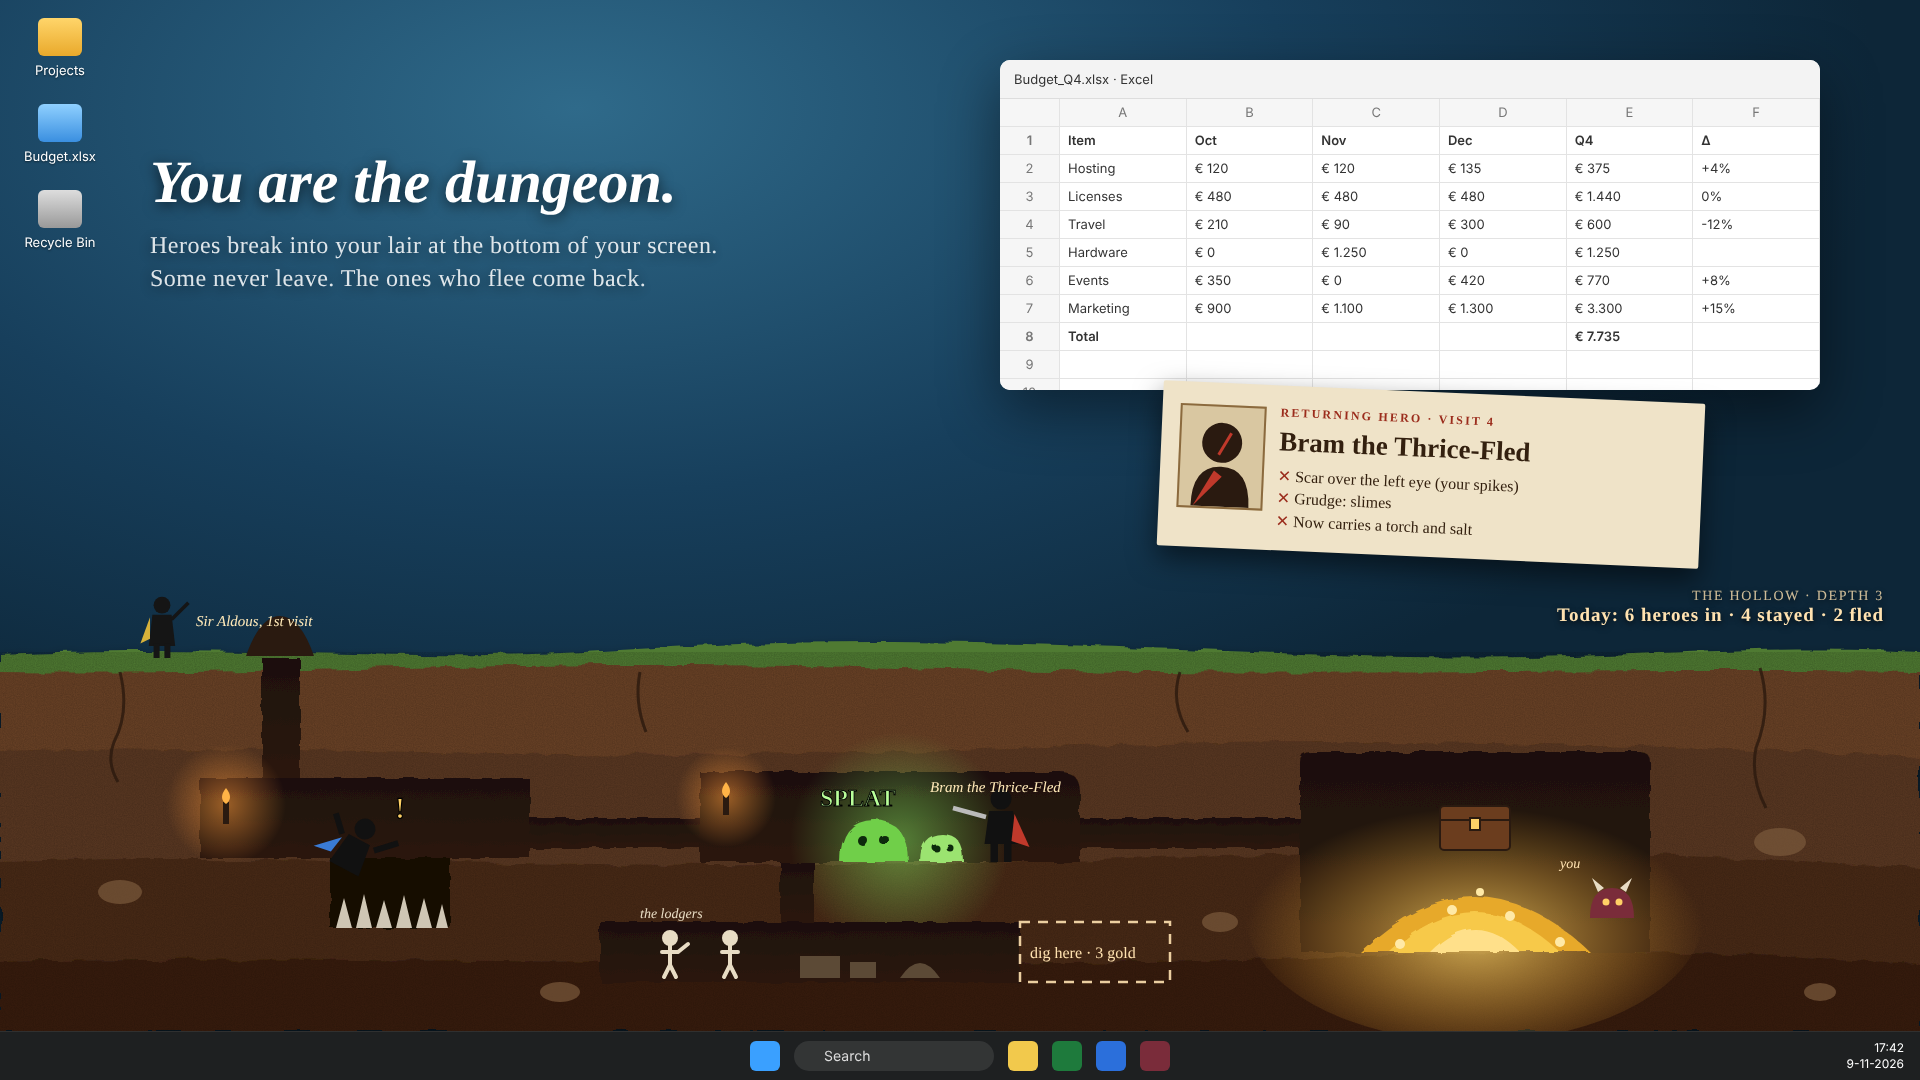
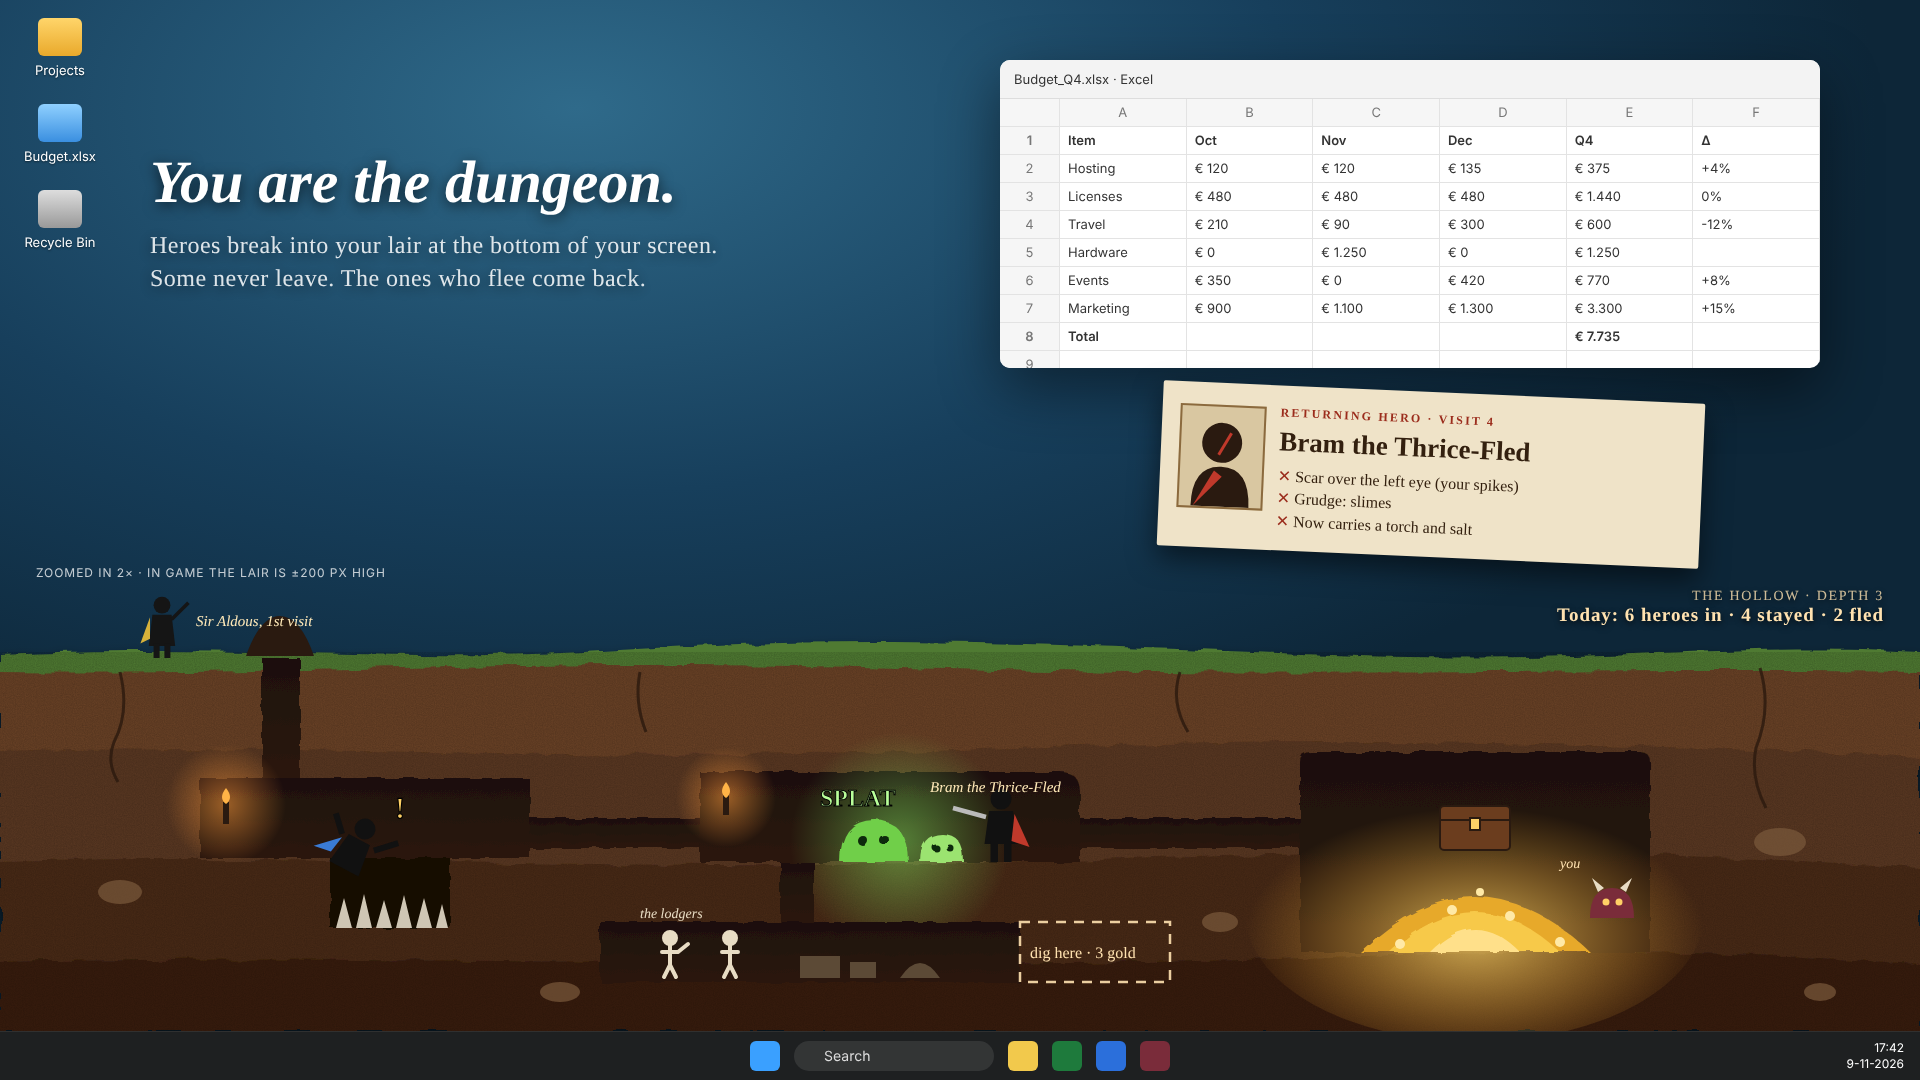
Daan: Steam beelden na controleur (zoom eerlijk gemeld, briefkaart wegklikbaar)
Claude-Session: https://claude.ai/code/session_01RMWUyhEnjM2pTnmfnNpvBd

Changed region(s): [[0.5, 0.3361, 0.9688, 0.3667], [0.0938, 0.5194, 0.1875, 0.55], [0.0312, 0.5194, 0.0625, 0.55]]

diff --git a/ontwerp/steam/hol-sfeer.html b/ontwerp/steam/hol-sfeer.html
@@ -4,7 +4,7 @@ html,body{margin:0;width:1920px;height:1080px;overflow:hidden;font-family:"Segoe
 .desk{position:absolute;inset:0;background:radial-gradient(1300px 700px at 30% 10%,#2f6a8a,#173f5c 55%,#0d2638)}
 .icons{position:absolute;left:22px;top:18px;display:grid;gap:26px;color:#fff;font-size:13px;text-align:center;text-shadow:0 1px 2px #0008}
 .icons div{width:76px}.icons i{display:block;width:44px;height:38px;margin:0 auto 6px;border-radius:6px;background:linear-gradient(#ffd56a,#e9a92b)}
-.win{position:absolute;left:1000px;top:60px;width:820px;height:330px;background:#fff;border-radius:10px;box-shadow:0 20px 60px #0007;overflow:hidden}
+.win{position:absolute;left:1000px;top:60px;width:820px;height:308px;background:#fff;border-radius:10px;box-shadow:0 20px 60px #0007;overflow:hidden}
 .win .bar{height:38px;background:#f3f3f3;border-bottom:1px solid #ddd;display:flex;align-items:center;padding:0 14px;font-size:13px;color:#333}
 .grid{display:grid;grid-template-columns:60px repeat(6,1fr);font-size:13px;color:#333}
 .grid div{border-right:1px solid #e3e3e3;border-bottom:1px solid #e3e3e3;height:27px;line-height:27px;padding:0 8px;white-space:nowrap;overflow:hidden}
@@ -113,14 +113,14 @@ svg.strip{position:absolute;left:0;bottom:48px;width:1920px;height:440px}
 <g stroke="#2b190e" stroke-width="3" fill="none" opacity=".8"><path d="M120 80 q10 40 -6 70 q-8 20 4 40"/><path d="M1180 80 q-10 30 8 60"/><path d="M1760 76 q12 40 -4 80 q-6 30 10 60"/><path d="M640 80 q-6 30 6 60"/></g>
 <g fill="#7b5a3c" opacity=".7"><ellipse cx="120" cy="300" rx="22" ry="12"/><ellipse cx="1220" cy="330" rx="18" ry="10"/><ellipse cx="1780" cy="250" rx="26" ry="14"/><ellipse cx="560" cy="400" rx="20" ry="10"/><ellipse cx="1820" cy="400" rx="16" ry="9"/></g>
 </svg>
-<div class="hud"><small>The Hollow · depth 3</small>Today: 6 heroes in · 4 stayed · 2 fled</div>
+<div style="position:absolute;left:36px;bottom:500px;color:#fff;font:12px Segoe UI;opacity:.75;letter-spacing:.08em">ZOOMED IN 2× · IN GAME THE LAIR IS ±200 PX HIGH</div><div class="hud"><small>The Hollow · depth 3</small>Today: 6 heroes in · 4 stayed · 2 fled</div>
 <div class="card"><div class="por"><svg viewBox="0 0 82 100" width="82" height="100"><circle cx="41" cy="36" r="20" fill="#2a1a10"/><path d="M12 100 q0 -40 29 -40 q29 0 29 40z" fill="#2a1a10"/><path d="M50 26 l-12 22" stroke="#c0392b" stroke-width="3"/><path d="M14 100 l20 -36 l8 6z" fill="#c0392b"/></svg></div>
 <em>Returning hero · visit 4</em><b>Bram the Thrice-Fled</b>
 <ul><li>Scar over the left eye (your spikes)</li><li>Grudge: slimes</li><li>Now carries a torch and salt</li></ul></div>
 <div class="task"><span style="background:#3aa0ff"></span><span class="s">Search</span><span style="background:#f2c94c"></span><span style="background:#1e7a3c"></span><span style="background:#2b6fdb"></span><span style="background:#7a2c3a"></span></div>
 <div class="clock">17:42<br>9-11-2026</div>
 <script>
-const g=document.getElementById('g');const rows=[["","A","B","C","D","E","F"],["1","Item","Oct","Nov","Dec","Q4","Δ"],["2","Hosting","€ 120","€ 120","€ 135","€ 375","+4%"],["3","Licenses","€ 480","€ 480","€ 480","€ 1.440","0%"],["4","Travel","€ 210","€ 90","€ 300","€ 600","-12%"],["5","Hardware","€ 0","€ 1.250","€ 0","€ 1.250",""],["6","Events","€ 350","€ 0","€ 420","€ 770","+8%"],["7","Marketing","€ 900","€ 1.100","€ 1.300","€ 3.300","+15%"],["8","Total","","","","€ 7.735",""],["9","","","","","",""],["10","","","","","",""]];
+const g=document.getElementById('g');const rows=[["","A","B","C","D","E","F"],["1","Item","Oct","Nov","Dec","Q4","Δ"],["2","Hosting","€ 120","€ 120","€ 135","€ 375","+4%"],["3","Licenses","€ 480","€ 480","€ 480","€ 1.440","0%"],["4","Travel","€ 210","€ 90","€ 300","€ 600","-12%"],["5","Hardware","€ 0","€ 1.250","€ 0","€ 1.250",""],["6","Events","€ 350","€ 0","€ 420","€ 770","+8%"],["7","Marketing","€ 900","€ 1.100","€ 1.300","€ 3.300","+15%"],["8","Total","","","","€ 7.735",""],["9","","","","","",""]];
 rows.forEach((r,i)=>r.forEach((c,j)=>{const d=document.createElement('div');d.textContent=c;if(i==0||j==0)d.className='h';if(i==1||i==8)d.style.fontWeight=600;g.appendChild(d)}));
 </script>
 </body></html>

diff --git a/ontwerp/steam/scherm/karavaan-scherm.html b/ontwerp/steam/scherm/karavaan-scherm.html
@@ -23,7 +23,7 @@ svg.strip{position:absolute;left:0;bottom:48px;width:1920px;height:210px}
 </style></head><body>
 <div class="desk"></div><div class="win"><div class="bar">Q4 planning.docx · Word<b>–▢✕</b></div><div class="doc"><h1>Q4 planning: notes for Thursday</h1><p>We start the week with the vendor review. The main question is whether we keep the current hosting contract or move the two smaller services to the new provider before January. Costs are roughly equal; the difference is support hours.</p><p>Second, the hiring plan. Two roles are open. The first interview round is booked for next Tuesday and Wednesday, and we still need one more person on the panel for the design role.</p><p>Third, the budget for events. Last year we spent most of it in the spring; this year we want to spread it out and keep a small reserve for things that come up during the year.</p><p>Action items: confirm the panel, send the vendor the questions list, and update the shared sheet with the October numbers before the meeting.</p><p>Open questions: who owns the reserve, and do we need sign-off from finance for anything under the limit?</p></div></div>
 <div class="hud"><small>Tuesday · day 2 of 5</small>214 km to Varenna · 3 wagons · 86 silver</div>
-<div class="paper" style="left:880px;bottom:250px;width:300px;padding:12px 14px;transform:rotate(-2deg)"><em>Postcard · near Ostwick</em>The bridge is gone. The ferryman wants 12 silver, or we take the hill road: one day longer, but the hill villages buy wool.<br><span class="btn k">Pay the ferry</span><span class="btn">Hill road</span></div>
+<div class="paper" style="left:880px;bottom:250px;width:300px;padding:12px 14px;transform:rotate(-2deg)"><span style="position:absolute;right:10px;top:6px;font:12px Georgia;color:#8a6410">later ✕</span><em>Postcard · near Ostwick</em>The bridge is gone. The ferryman wants 12 silver, or we take the hill road: one day longer, but the hill villages buy wool.<br><span class="btn k">Pay the ferry</span><span class="btn">Hill road</span></div>
 <div class="menu"><i>⚖</i><i>✉</i><i>≡</i></div><svg class="strip" viewBox="0 90 1920 210" preserveAspectRatio="none">
 <defs>
  <linearGradient id="sky" x1="0" y1="0" x2="0" y2="1"><stop offset="0" stop-color="#2a1b3d" stop-opacity="0"/><stop offset=".35" stop-color="#3b2347"/><stop offset=".75" stop-color="#b8554a"/><stop offset="1" stop-color="#f2a65a"/></linearGradient>
@@ -85,7 +85,7 @@ svg.strip{position:absolute;left:0;bottom:48px;width:1920px;height:210px}
 <!-- voorgrond gras -->
 <path fill="#12070f" d="M0 300 V276 C80 270 120 282 200 276 L210 262 L216 276 C300 272 380 284 460 276 L468 258 L474 276 C600 270 700 282 820 276 C1000 270 1180 284 1320 276 L1328 262 L1334 276 C1500 270 1700 282 1920 274 V300Z"/>
 </svg><div class="hud"><small>Tuesday · day 2 of 5</small>214 km to Varenna · 3 wagons · 86 silver</div>
-<div class="paper" style="left:880px;bottom:250px;width:300px;padding:12px 14px;transform:rotate(-2deg)"><em>Postcard · near Ostwick</em>The bridge is gone. The ferryman wants 12 silver, or we take the hill road: one day longer, but the hill villages buy wool.<br><span class="btn k">Pay the ferry</span><span class="btn">Hill road</span></div>
+<div class="paper" style="left:880px;bottom:250px;width:300px;padding:12px 14px;transform:rotate(-2deg)"><span style="position:absolute;right:10px;top:6px;font:12px Georgia;color:#8a6410">later ✕</span><em>Postcard · near Ostwick</em>The bridge is gone. The ferryman wants 12 silver, or we take the hill road: one day longer, but the hill villages buy wool.<br><span class="btn k">Pay the ferry</span><span class="btn">Hill road</span></div>
 <div class="menu"><i>⚖</i><i>✉</i><i>≡</i></div>
 <div class="task"><span style="background:#3aa0ff"></span><span class="s">Search</span><span style="background:#f2c94c"></span><span class="on" style="background:#2b6fdb"></span><span style="background:#1e7a3c"></span><span class="on" style="background:#7a2c3a"></span></div>
 <div class="clock">17:42<br>9-11-2026</div></body></html>

diff --git a/ontwerp/steam/scherm/maak.py b/ontwerp/steam/scherm/maak.py
@@ -44,7 +44,7 @@ UI={
 <div class="paper" style="left:930px;bottom:262px;width:250px;padding:10px 12px;transform:rotate(1.5deg)"><em style="color:#9b2c1c">Returning · visit 4</em><b>Bram the Thrice-Fled</b><br>Scar over the left eye. Grudge: slimes.</div>
 <div class="paper" style="right:16px;bottom:58px;padding:6px 8px;display:flex;gap:6px;font-size:12px;text-align:center"><div style="width:52px">⛏<br>Dig 3</div><div style="width:52px">▲<br>Spikes 12</div><div style="width:52px">●<br>Slime 20</div><div style="width:52px">☠<br>Bones 30</div></div>'''),
 'karavaan':('Q4 planning.docx · Word','''<div class="hud"><small>Tuesday · day 2 of 5</small>214 km to Varenna · 3 wagons · 86 silver</div>
-<div class="paper" style="left:880px;bottom:250px;width:300px;padding:12px 14px;transform:rotate(-2deg)"><em>Postcard · near Ostwick</em>The bridge is gone. The ferryman wants 12 silver, or we take the hill road: one day longer, but the hill villages buy wool.<br><span class="btn k">Pay the ferry</span><span class="btn">Hill road</span></div>
+<div class="paper" style="left:880px;bottom:250px;width:300px;padding:12px 14px;transform:rotate(-2deg)"><span style="position:absolute;right:10px;top:6px;font:12px Georgia;color:#8a6410">later ✕</span><em>Postcard · near Ostwick</em>The bridge is gone. The ferryman wants 12 silver, or we take the hill road: one day longer, but the hill villages buy wool.<br><span class="btn k">Pay the ferry</span><span class="btn">Hill road</span></div>
 <div class="menu"><i>⚖</i><i>✉</i><i>≡</i></div>'''),
 }
 for n,(t,u) in UI.items():

diff --git a/platformen/steam/idee.md b/platformen/steam/idee.md
@@ -81,4 +81,4 @@ Controleur 9 nov ±16:35 UTC over de nieuwe richting 3 en het afvallen van Toets
 - **Sfeerbeeld Het Hol:** `ontwerp/steam/hol-sfeer.png` (bron `hol-sfeer.html`): doorsnede van de aarde boven de taakbalk, een held aan de ingang, een held die in de stekelput valt, Bram die tegen de slijmen vecht, de skeletten als huisgenoten, de schatkamer met jou op het goud, een gestippeld vak om te graven, en het kaartje van Bram de Driemaal Gevluchte (bezoek 4, litteken, wrok). Kop: "You are the dungeon."
 - **Echte schermen, alle drie:** `ontwerp/steam/scherm/kerker-scherm.png`, `hol-scherm.png`, `karavaan-scherm.png` (bron `scherm/maak.py`). 1920 x 1080 op schaal 100%, strook ±210 px hoog, op ware grootte voor een Word-venster, met de knoppen en tekst in de maten van het spel (HUD 14 px, briefkaart, bouwbalk). Eerlijk: het bureaublad is nagebouwd, niet uit de Windows-runner (die draait op 1024 x 768 met een consolevenster, te lelijk voor Thijs). Het scherm uit een draaiende app komt bij het prototype.
 - **Wat ik zag op ware grootte:** de Karavaan leest het best (grote vormen, lucht, briefkaart met keuze), de Kerker is herkenbaar, Het Hol is op ware grootte druk: de kamers en helden worden klein. Bij Het Hol moet het prototype de strook hoger maken (±260 px) of minder kamers tegelijk tonen. Voor mij blijft Het Hol de sterkste kop op een winkelplaatje ("You are the dungeon"), de Karavaan de mooiste strook om de hele dag te zien.
-- **Nog open (volgende run):** controleur op alle zes beelden, rand van het gegraven gebied in het Hol-scherm (nu een zichtbare naad), helden fijner tekenen.
+- **Controleur:** alle vier ja (Hol-scherm zwakst, Karavaan netst); "zoomed in 2×" en "later ✕" verwerkt. **Nog open (volgende run):** Kerker-scherm contrast en knoppen, Hol-scherm leesbaar en over de volle breedte, daarna samen op de lijst van Thijs.

diff --git a/ontwerp/logboek.md b/ontwerp/logboek.md
@@ -622,3 +622,4 @@ Alleen aanvullen. Per run: datum, wat bekeken (met run-nummer), wat gevonden, wa
 - **Gezien:** Het Hol is op ware grootte druk; advies aan Olaf: strook hoger of minder kamers in beeld.
 - **Mis:** `git pull` en de volle tak `schermen` hingen; `fetch --depth 1 --filter=blob:none` werkt.
 - **Volgende run:** controleur op de zes beelden, naad in het Hol-scherm, helden fijner; daarna samen met Olaf op de lijst van Thijs.
+- **Controleur (agent) op de vier nieuwe beelden:** alle vier ja, Het Hol-scherm het zwakst, Karavaan het netst. Meteen opgelost: "Zoomed in 2×" op het Hol-sfeerbeeld (eerlijk: in het spel is het hol ±200 px hoog), Excel-venster korter, "later ✕" op de briefkaart (geen opdringerige pop-up). **Nog open voor de volgende run:** helden en monster in het Kerker-scherm meer contrast, uitleg bij de drie ronde knoppen, Hol-scherm labels leesbaar en tekening over de volle breedte (geen kale aarde links en rechts), heldje bovenaan niet over het venster, kaart van Bram groter.
